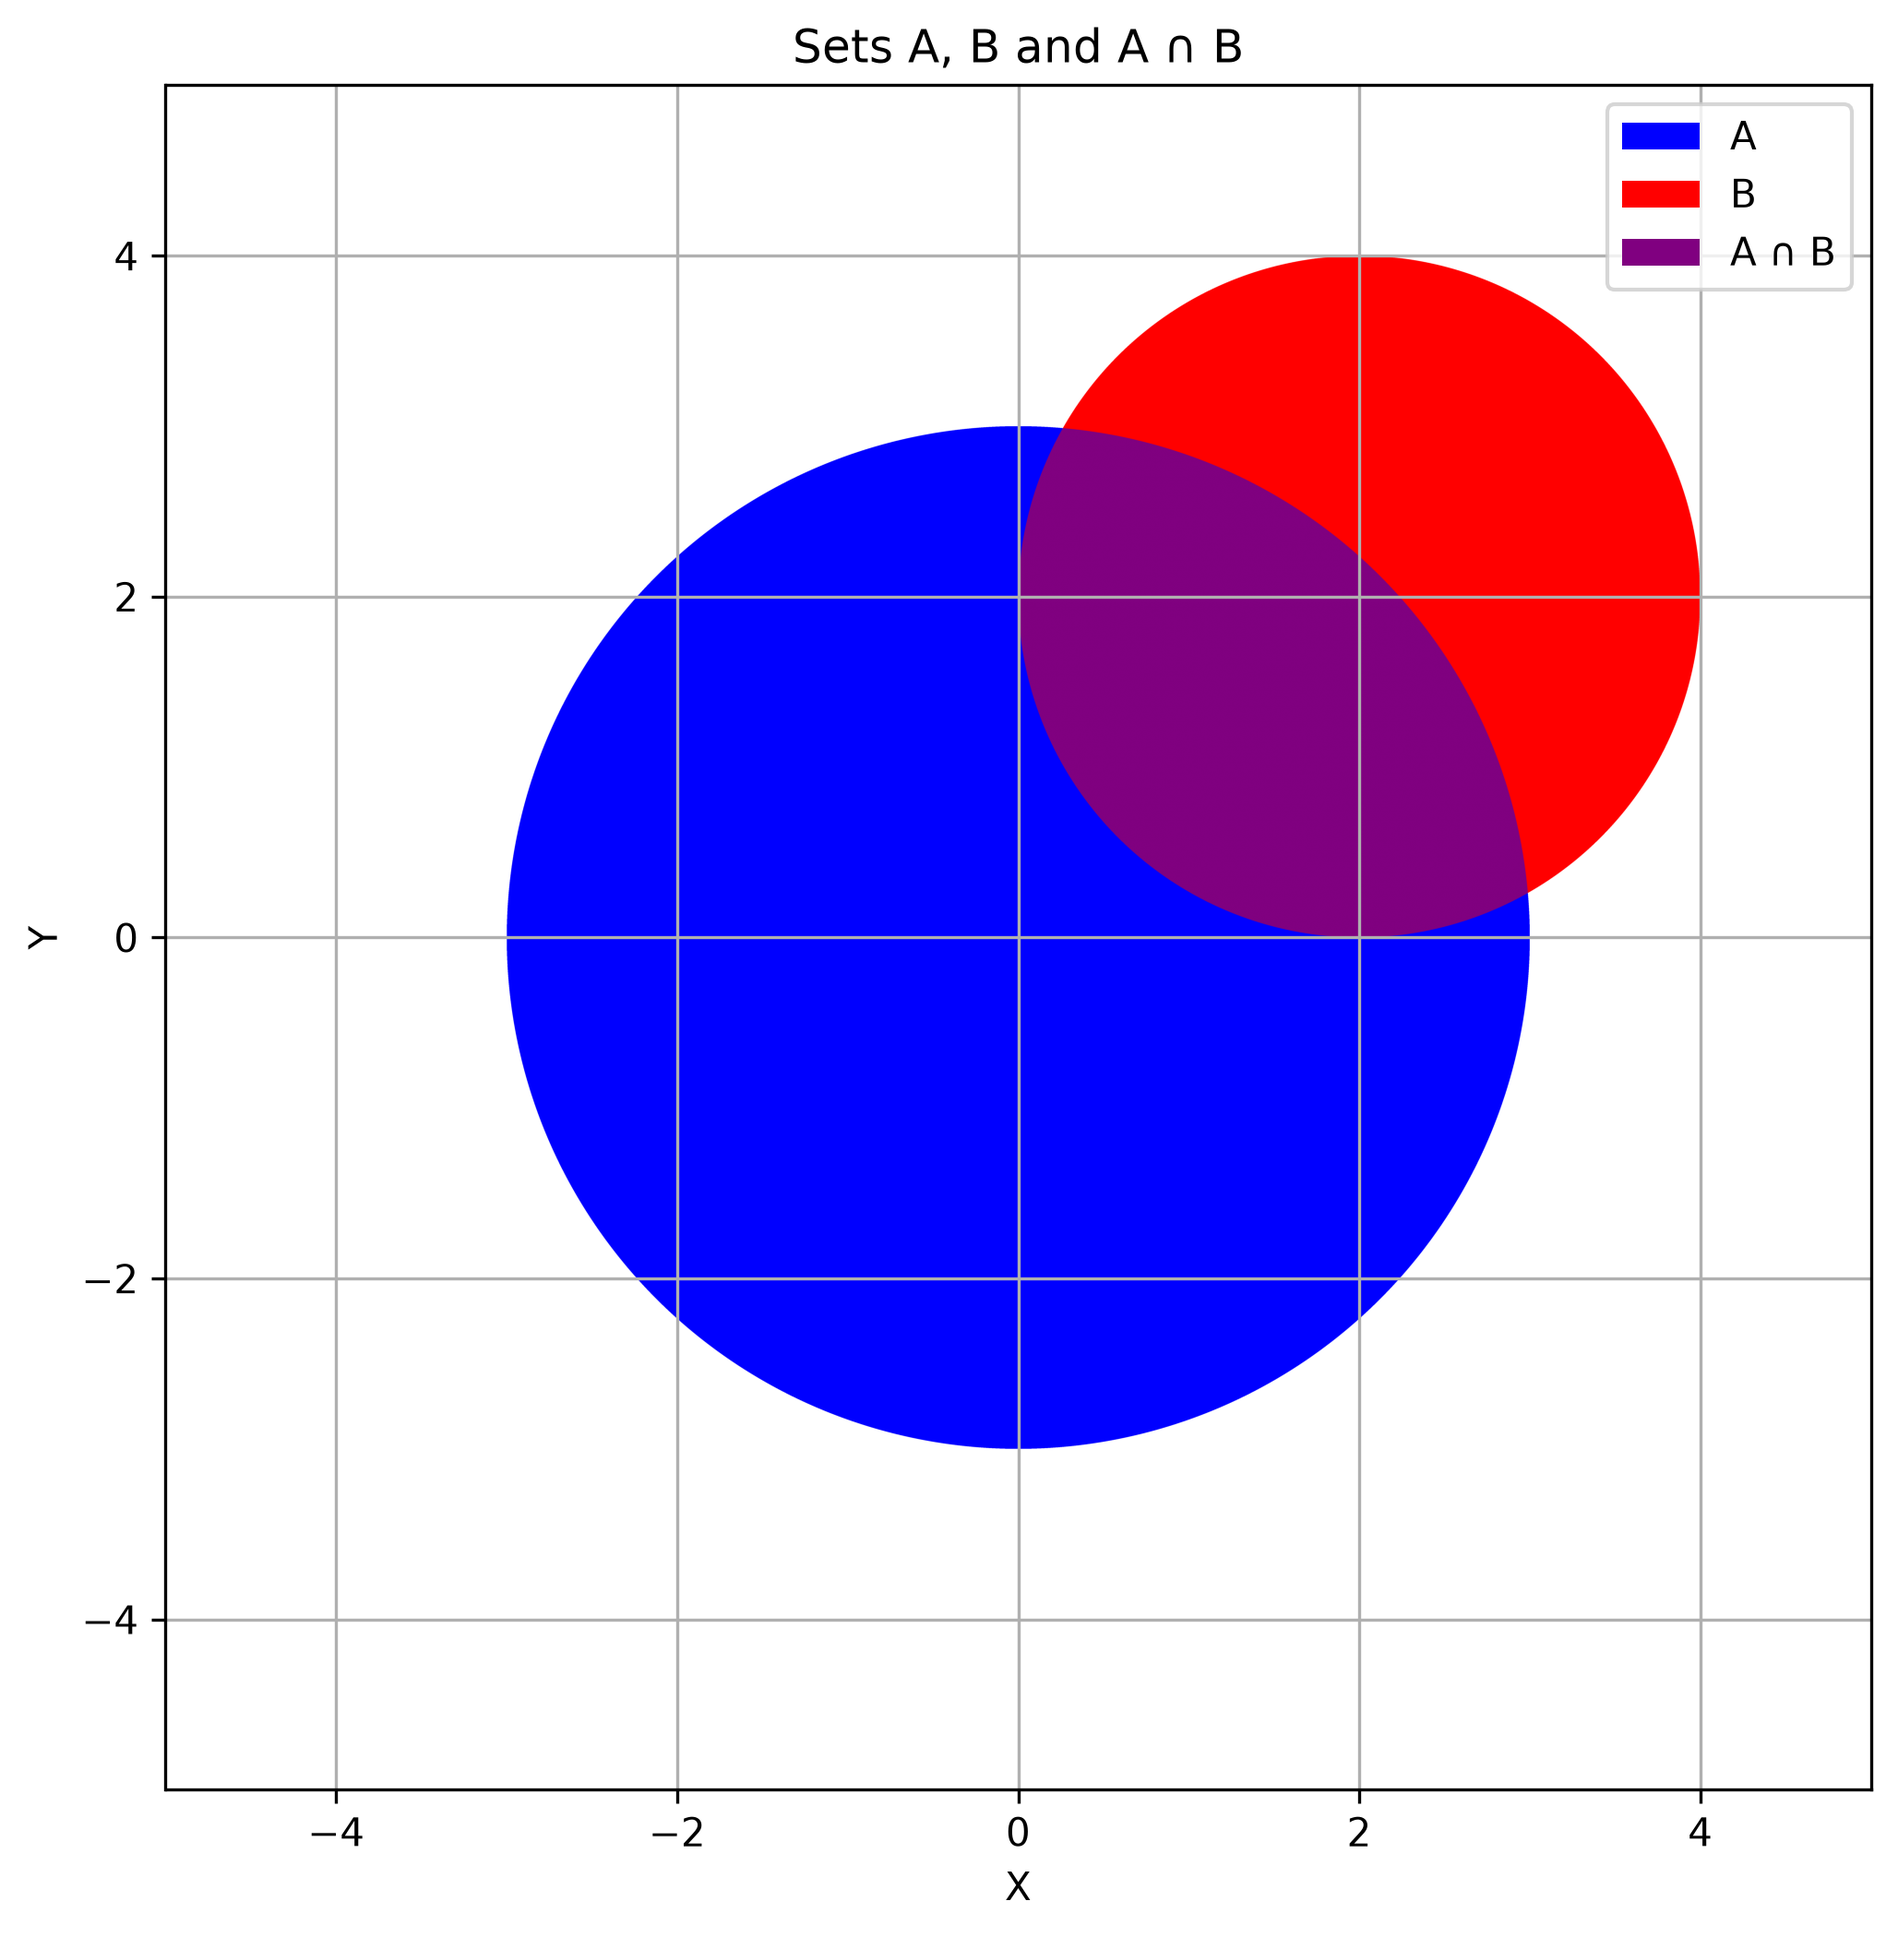
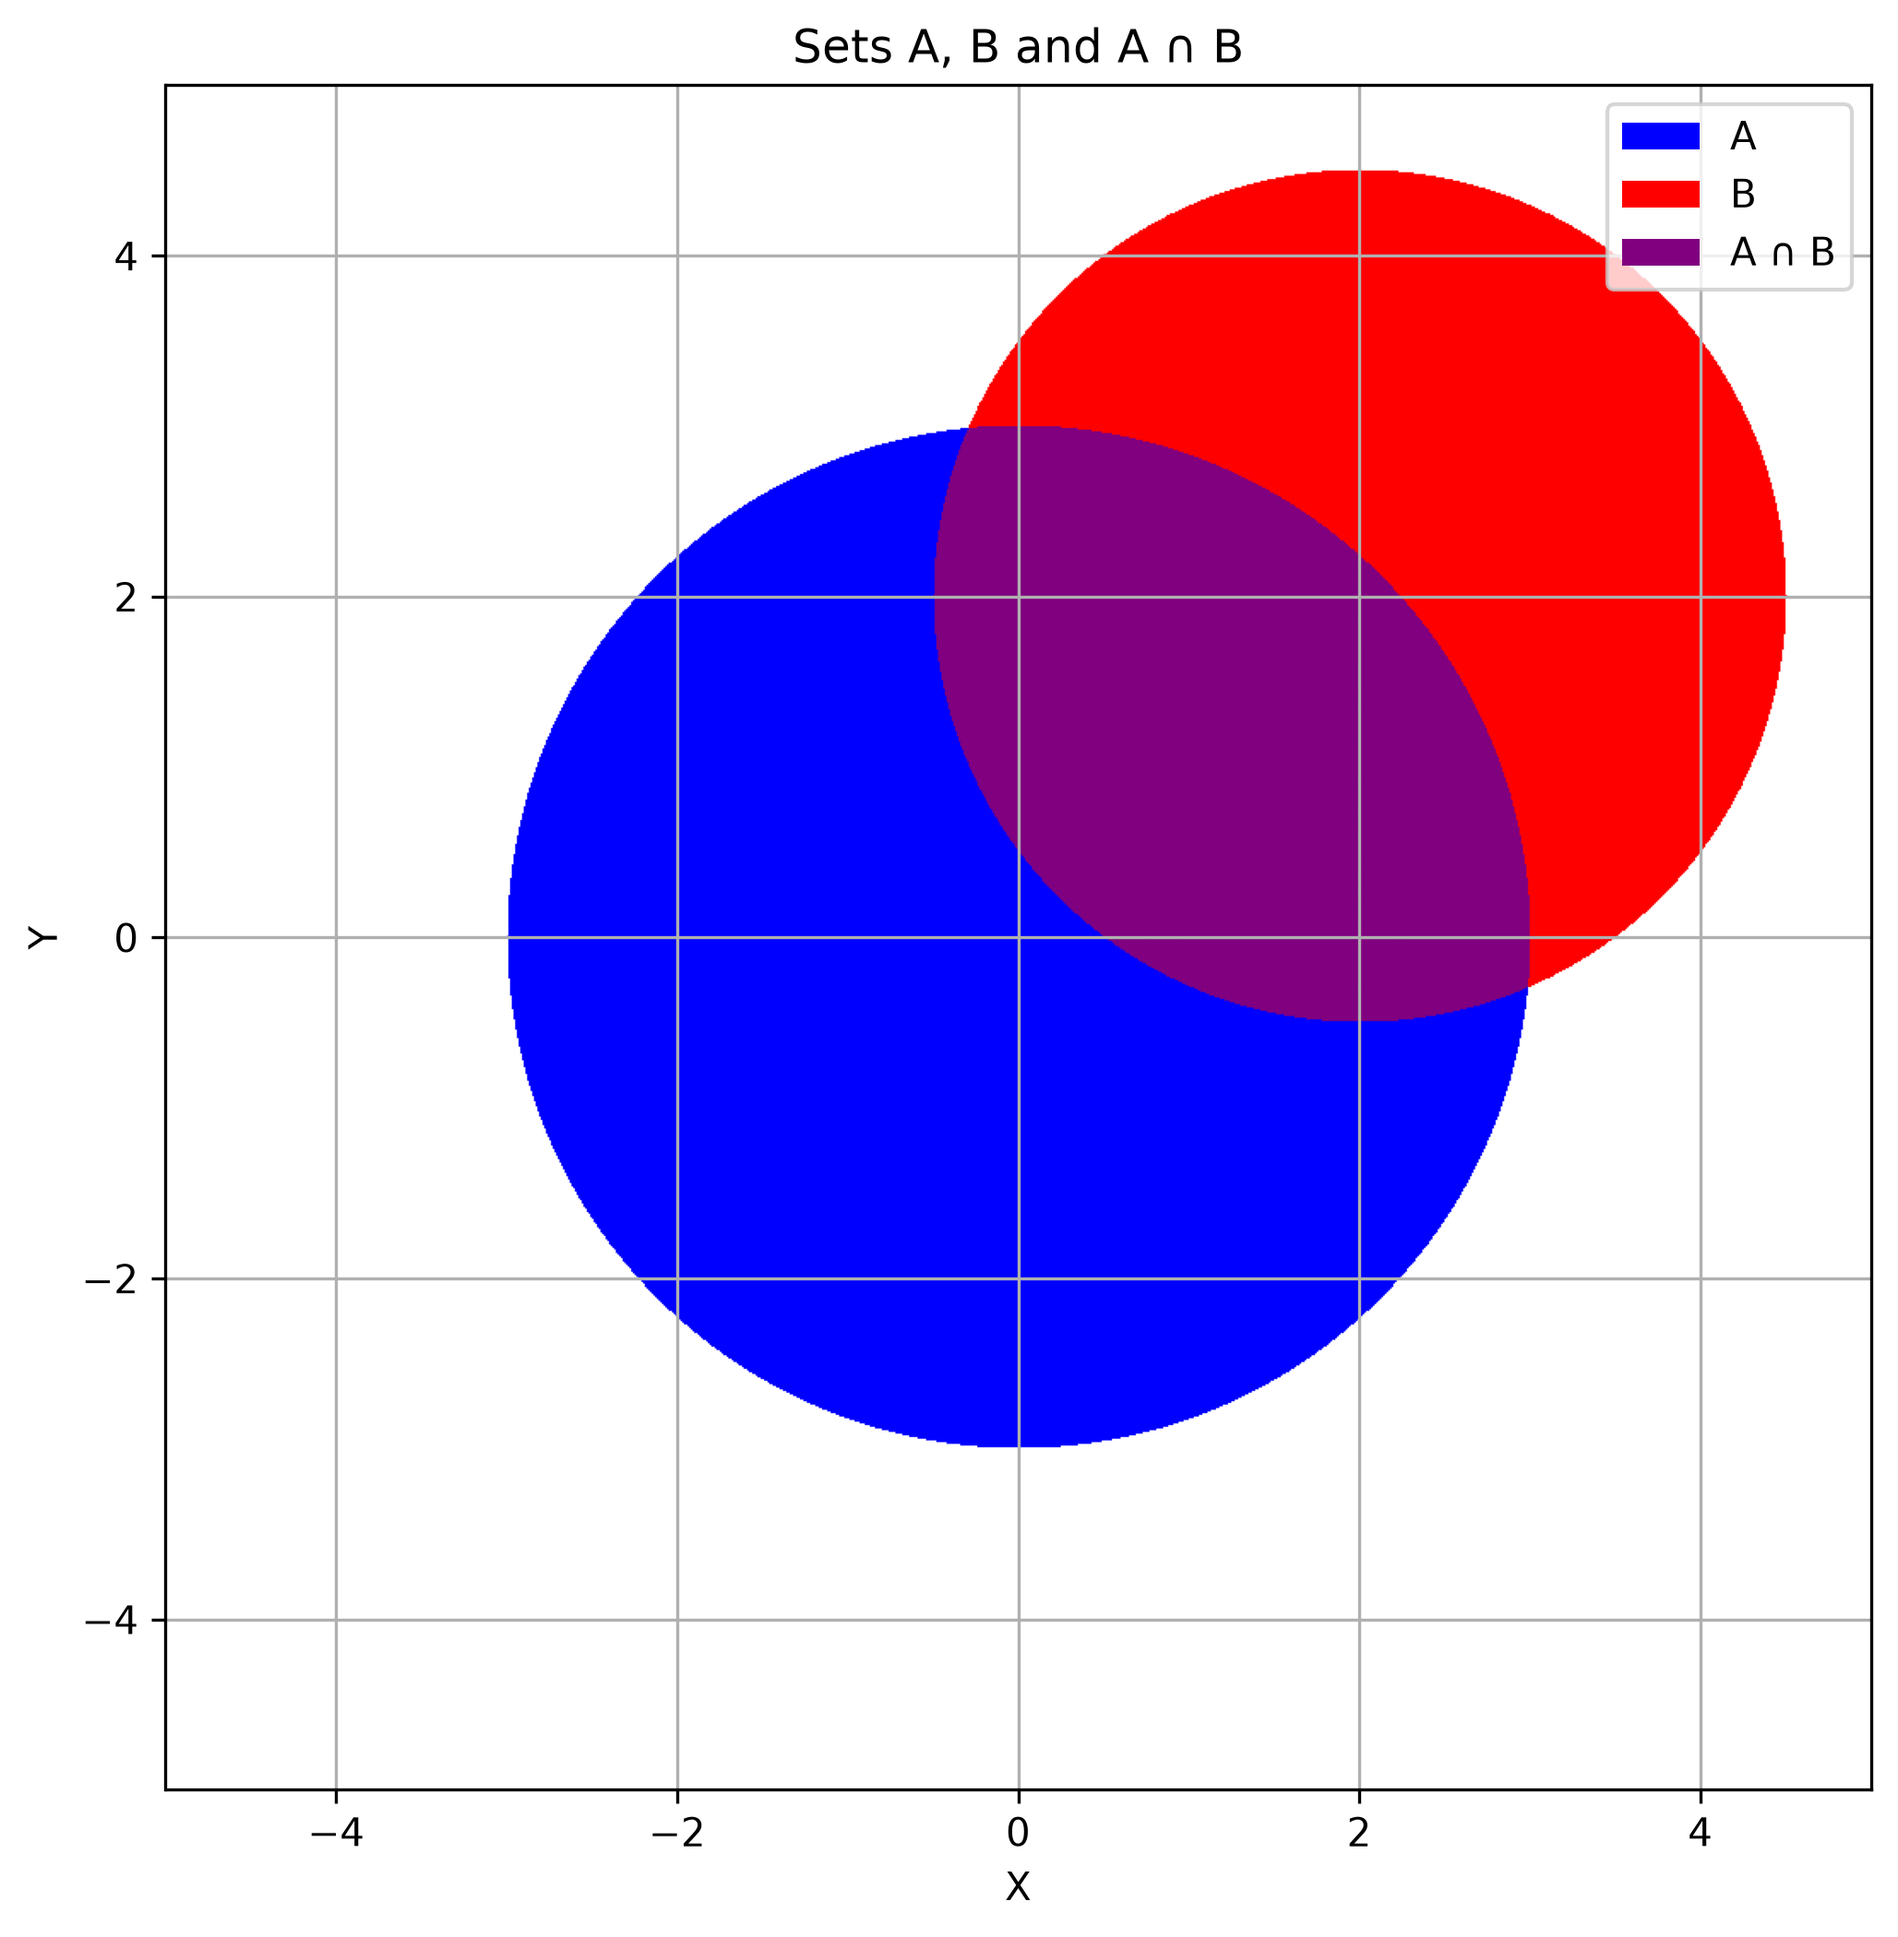
Report is mostly done. Needs rebrushing.

Changed region(s): [[0.4667, 0.0619, 0.9645, 0.5262]]

diff --git a/lab02/lab02-3.py b/lab02/lab02-3.py
@@ -1,4 +1,5 @@
 import numpy as np
+from matplotlib import pyplot as plt
 
 
 def is_convex(points):
@@ -32,8 +33,41 @@ def orientation_of_cross(vector_a, vector_b):
     oriented_length = x1 * y2 - y1 * x2
     return np.sign(oriented_length)
 
-
-oriented_points_convex = np.array([[0, 0], [1, 0], [1, 1], [0, 1]])
-oriented_points_non_convex = np.array([[0, 0], [1, 0], [0.5, 0.5], [1, 1], [0, 1]])
-print(is_convex(oriented_points_convex))  # True
-print(is_convex(oriented_points_non_convex))  # False
+if __name__ == "__main__":
+    # Одна точка лежит на линии между двумя другими точками, но не нарушает выпуклость
+    # Повторяющиеся точки не нарушают выпуклость
+    oriented_points_convex = np.array([[0, 0], [1, 0], [1, 1], [0.5, 1], [0, 1], [0, 0]])
+    oriented_points_convex[:, 1] += 3.0
+    oriented_points_convex[:, 0] -= 3.0
+    oriented_points_non_convex = np.array(
+        [[0, 0], [1, 0], [0.5, 0.5], [1, 1], [0, 1], [0, 0]]
+    )
+    star_points = np.array(
+        [
+            [0.000, 5.000],
+            [1.176, 1.618],
+            [4.755, 1.545],
+            [1.902, -0.618],
+            [2.939, -4.045],
+            [0.000, -2.000],
+            [-2.939, -4.045],
+            [-1.902, -0.618],
+            [-4.755, 1.545],
+            [-1.176, 1.618],
+            [0.000, 5.000],
+        ]
+    )
+    print(is_convex(oriented_points_convex))  # True
+    print(is_convex(oriented_points_non_convex))  # False
+    print(is_convex(star_points))  # False
+    plt.plot(*oriented_points_convex.T, marker="o", color="b", label="Convex Polygon")
+    plt.plot(
+        *oriented_points_non_convex.T, marker="o", color="r", label="Non-Convex Polygon"
+    )
+    plt.plot(*star_points.T, marker="o", color="g", label="Star Shape")
+    plt.legend()
+    plt.title("Polygon Shapes")
+    plt.xlabel("X-axis")
+    plt.ylabel("Y-axis")
+    plt.grid()
+    plt.show()

diff --git a/lab02/lab02-1.py b/lab02/lab02-1.py
@@ -17,34 +17,35 @@ mask[vertex_indices] = True
 
 inner_points = points[~mask]
 
-plt.figure(figsize=(8, 6))
-plt.scatter(
-    inner_points[:, 0],
-    inner_points[:, 1],
-    s=10,
-    marker="o",
-    label="Random Points",
-    c="blue",
-    alpha=0.5,
-)
-plt.scatter(
-    hull_vertices[:, 0],
-    hull_vertices[:, 1],
-    s=10,
-    marker="o",
-    label="Convex Hull Points",
-    c="red",
-)
-plt.fill(
-    points[vertex_indices][:, 0],
-    points[vertex_indices][:, 1],
-    color="lightgreen",
-    alpha=0.4,
-)
-plt.title("Convex Hull of Random Points")
-plt.xlabel("X")
-plt.ylabel("Y")
-plt.grid()
-plt.legend()
-plt.savefig("convex_hull_plot.png", dpi=300, bbox_inches="tight")
-plt.show()
+if __name__ == "__main__":
+    plt.figure(figsize=(8, 6))
+    plt.scatter(
+        inner_points[:, 0],
+        inner_points[:, 1],
+        s=10,
+        marker="o",
+        label="Random Points",
+        c="blue",
+        alpha=0.5,
+    )
+    plt.scatter(
+        hull_vertices[:, 0],
+        hull_vertices[:, 1],
+        s=10,
+        marker="o",
+        label="Convex Hull Points",
+        c="red",
+    )
+    plt.fill(
+        points[vertex_indices][:, 0],
+        points[vertex_indices][:, 1],
+        color="lightgreen",
+        alpha=0.4,
+    )
+    plt.title("Convex Hull of Random Points")
+    plt.xlabel("X")
+    plt.ylabel("Y")
+    plt.grid()
+    plt.legend()
+    plt.savefig("convex_hull_plot.png", dpi=300, bbox_inches="tight")
+    plt.show()

diff --git a/lab02/lab02-2.py b/lab02/lab02-2.py
@@ -9,12 +9,12 @@ def in_A(x, y):
 
 
 def in_B(x, y):
-    return (x - 2.0) ** 2 + (y - 2.0) ** 2 <= 4.0
+    return (x - 2.0) ** 2 + (y - 2.0) ** 2 <= 6.25
 
 
 x_min, x_max = -5.0, 5.0
 y_min, y_max = -5.0, 5.0
-step = 0.001
+step = 0.01
 
 Y, X = np.mgrid[y_min:y_max:step, x_min:x_max:step]
 
@@ -34,12 +34,13 @@ legend_elements = [
 ]
 cmap = ListedColormap([(0, 0, 0, 0), "blue", "red", "purple"])
 
-plt.figure(figsize=(8, 8))
-plt.imshow(img, extent=(x_min, x_max, y_min, y_max), origin="lower", cmap=cmap)
-plt.title("Sets A, B and A ∩ B")
-plt.xlabel("X")
-plt.ylabel("Y")
-plt.grid()
-plt.legend(handles=legend_elements, loc="upper right")
-plt.savefig("sets_plot.png", dpi=300, bbox_inches="tight")
-plt.show()
+if __name__ == "__main__":
+    plt.figure(figsize=(8, 8))
+    plt.imshow(img, extent=(x_min, x_max, y_min, y_max), origin="lower", cmap=cmap)
+    plt.title("Sets A, B and A ∩ B")
+    plt.xlabel("X")
+    plt.ylabel("Y")
+    plt.grid()
+    plt.legend(handles=legend_elements, loc="upper right")
+    plt.savefig("sets_plot.png", dpi=300, bbox_inches="tight")
+    plt.show()
